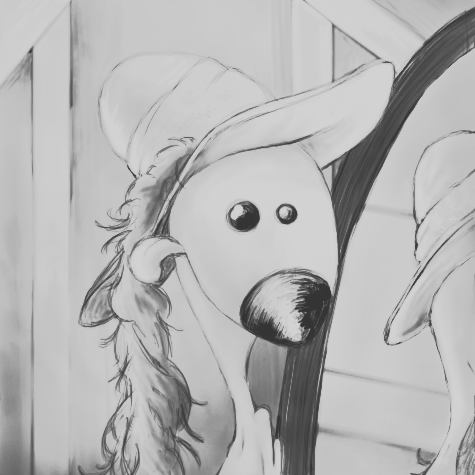
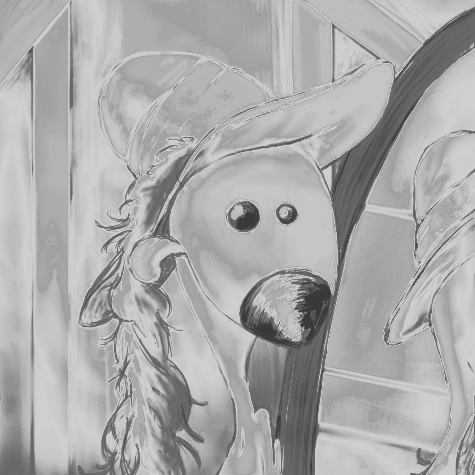
Modification kernel + ajout gestion arguments

diff --git a/mean_shift.c b/mean_shift.c
@@ -46,10 +46,10 @@ void mean_shift(unsigned char *original_dot_set, unsigned int *shifted_hist,  un
 		printf("-");
 		/*i represente xi*/
 		for(i = 1; i <= 255; i++){
-			//numerator += hist[i] * i * (-1.0)  * derivee_kernel(((val-i)/h)*(val-i)/h);
-			//scale_factor += hist[i] * (-1.0) * derivee_kernel(((val-i)/h)*(val-i)/h);
-			numerator += hist[i] * i * kernel(((val-i)/h)*(val-i)/h);
-			scale_factor += hist[i] * kernel(((val-i)/h)*(val-i)/h); 
+		  numerator += hist[i] * i * derivee_kernel(((val-i)/h)*(val-i)/h);
+		  scale_factor += hist[i] * derivee_kernel(((val-i)/h)*(val-i)/h);
+		  /* numerator += hist[i] * i * kernel(((val-i)/h)*(val-i)/h); */
+		  /* scale_factor += hist[i] * kernel(((val-i)/h)*(val-i)/h);  */
 		}
     
 		error = shifted_hist[val];

diff --git a/three_dim_color.c b/three_dim_color.c
@@ -184,9 +184,9 @@ int main(int argc, char **argv){
 			v_shifted = (unsigned char *)malloc(sizeof(unsigned char)*dimx*dimy);
 			b_shifted = (unsigned char *)malloc(sizeof(unsigned char)*dimx*dimy);
 
-			compute_mean_shift(r, r_shifted, dimx* dimy, 100);
-			compute_mean_shift(v, v_shifted, dimx* dimy, 100);
-			compute_mean_shift(b, b_shifted, dimx* dimy, 100);
+			compute_mean_shift(r, r_shifted, dimx* dimy, 40);
+			compute_mean_shift(v, v_shifted, dimx* dimy, 40);
+			compute_mean_shift(b, b_shifted, dimx* dimy, 40);
 			
 			/* ecriture image */
 			write_color(outName, dimx, dimy, r_shifted, v_shifted, b_shifted);

diff --git a/one_dim_color.c b/one_dim_color.c
@@ -105,7 +105,7 @@ int main(int argc, char **argv){
 			buf_out = (unsigned char *)malloc(sizeof(unsigned char)*dimx*dimy);
 
 			printf("Avant compute mean shift\n");
-			compute_mean_shift(buf_in, buf_out, dimx* dimy,100);
+			compute_mean_shift(buf_in, buf_out, dimx* dimy,40);
 			printf("Après compute mean shift\n");
 			/* ecriture image */
 			write_grayscale(outName, dimx, dimy, buf_out);
